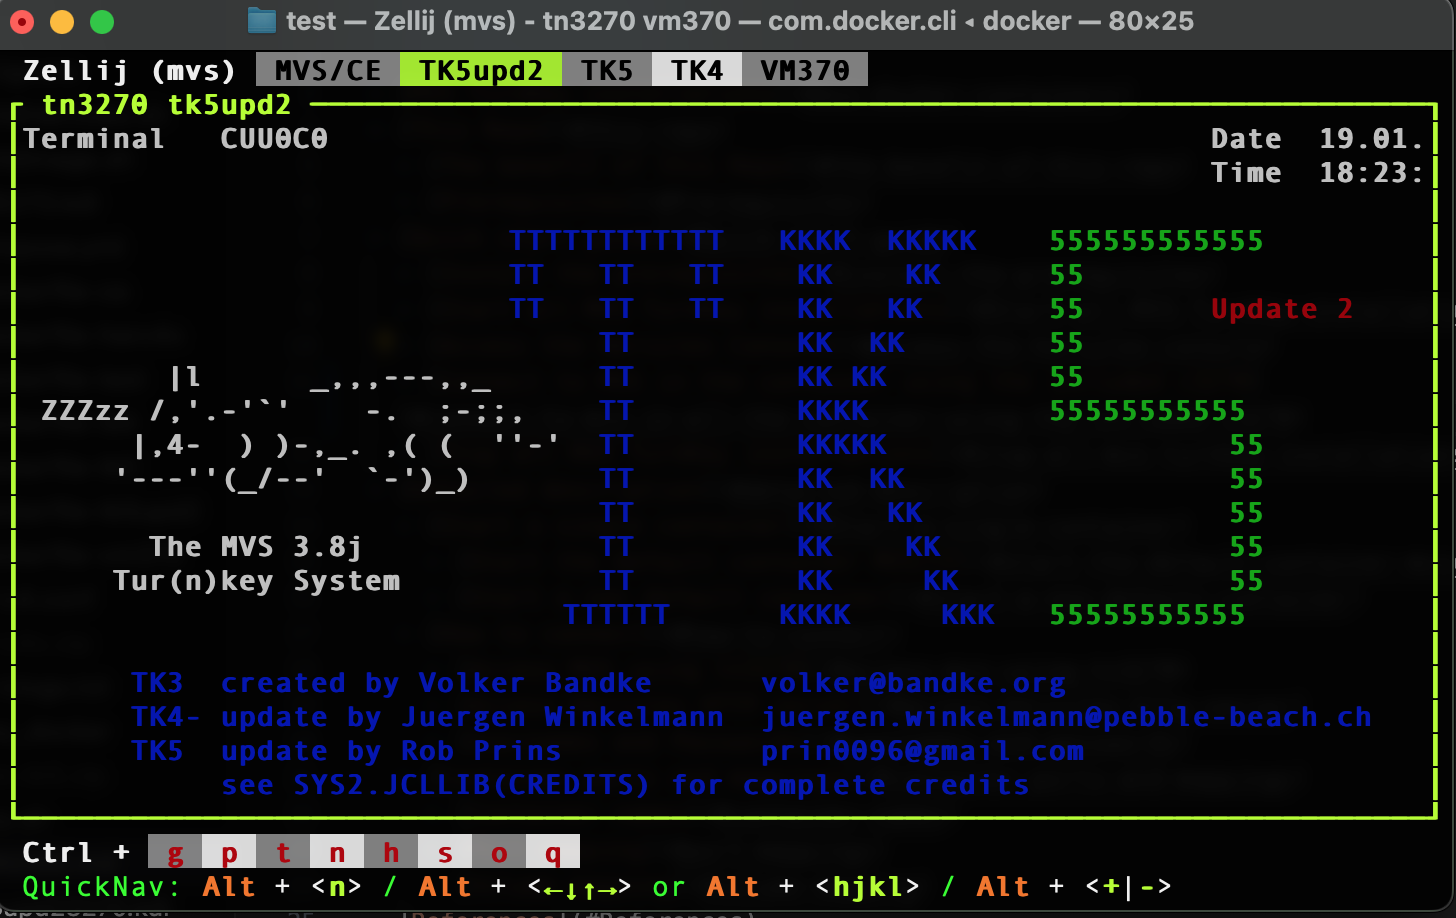
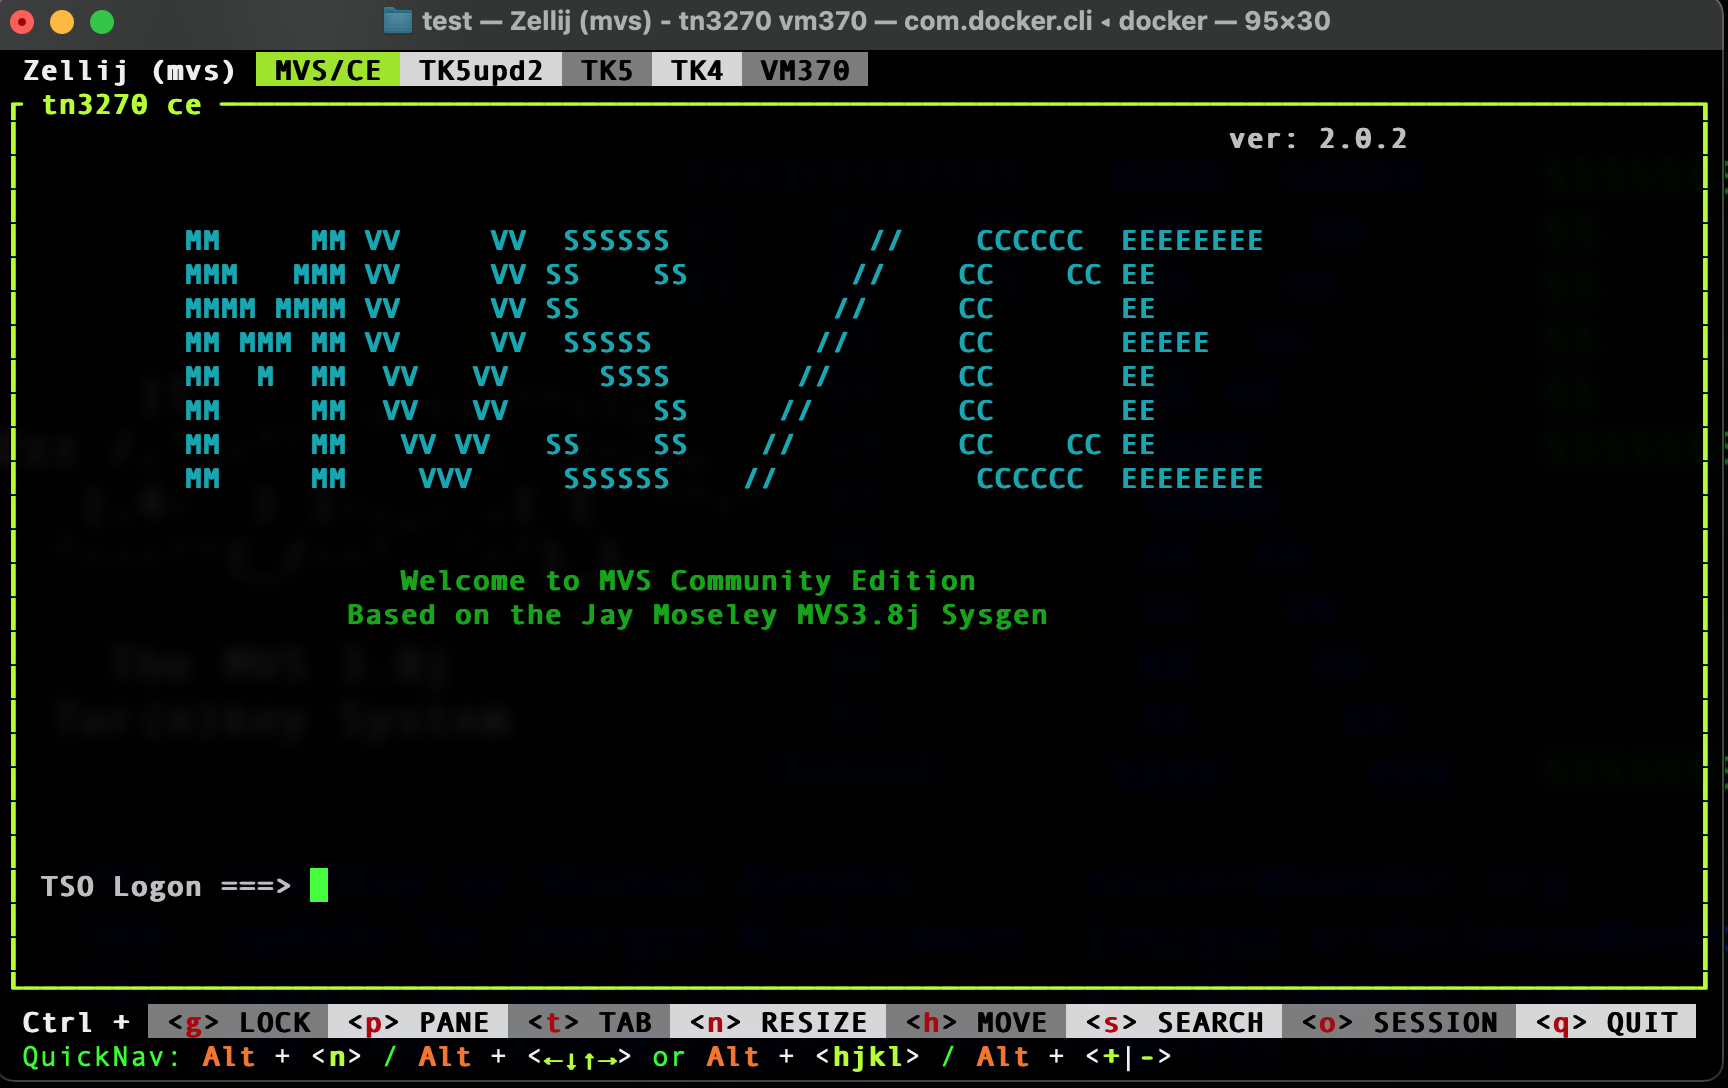
changed the example to use ce again

Changed region(s): [[0.0, 0.0, 1.0, 1.0], [0.8345, 0.305, 0.9272, 0.366], [0.1545, 0.488, 0.1854, 0.549]]

diff --git a/README.md b/README.md
@@ -102,14 +102,14 @@ The containers include [Zellij](https://zellij.dev/documentation/), a terminal m
 * Run the following command to access MVS using [Zellij](https://zellij.dev/documentation/) and the included c3270 emulator. [c3270 How to...](VM370.md#c3270-basic-commands)
 
 ```sh
-docker exec -it tk5upd2 ./zel3270
+docker exec -it ce ./zel3270
 ```
 
-This will start [Zellij](https://zellij.dev/documentation/) and open the c3270 emulator in the container named `tk5upd2`, with connections to MVS in all containers, and make `tk5upd2` the active connection.
+This will start [Zellij](https://zellij.dev/documentation/) and open the c3270 emulator in the container named `ce`, with connections to MVS in all containers, and make `ce` the active connection.
 
 It is now possible to press `Ctrl + T` and use left and right arrow keys to select a tab, with a connection to another MVS installation. 
 
-In the command example `tk5upd2` is the name of the docker container, this name
+In the command example `ce` is the name of the docker container, this name
 can be changed to another container name to start with another active connection.
 
 ![All TN3270 connections](https://github.com/MortenHarding/docker-mvs38j/blob/main/assets/zellij.png?raw=true)
